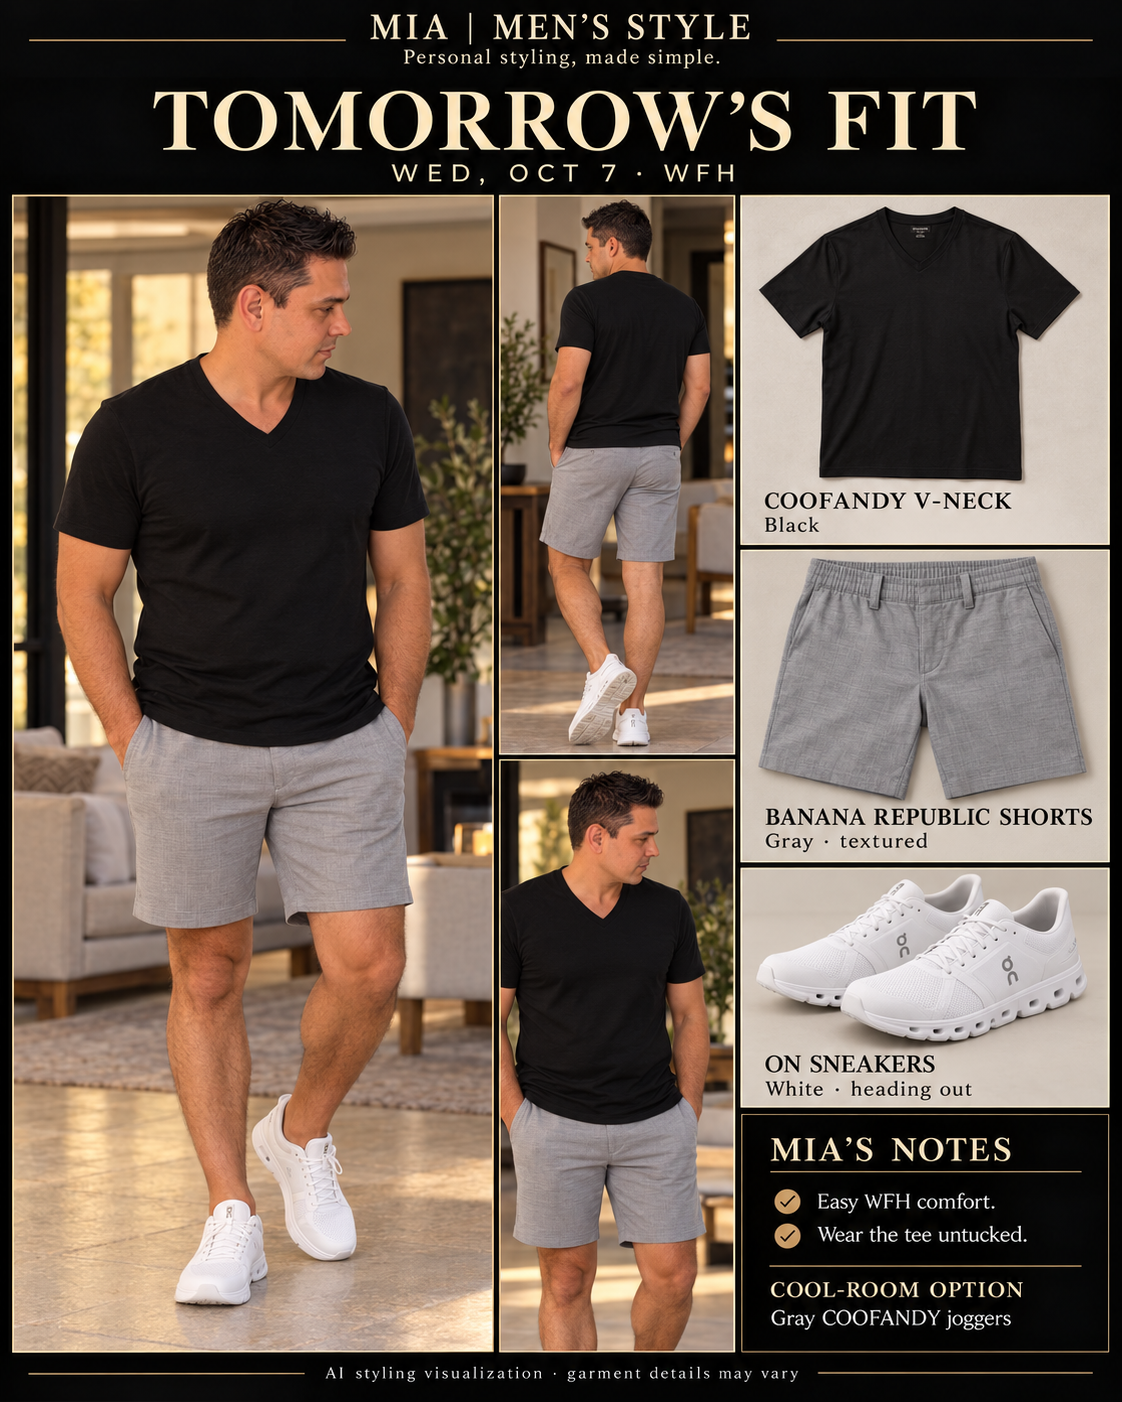
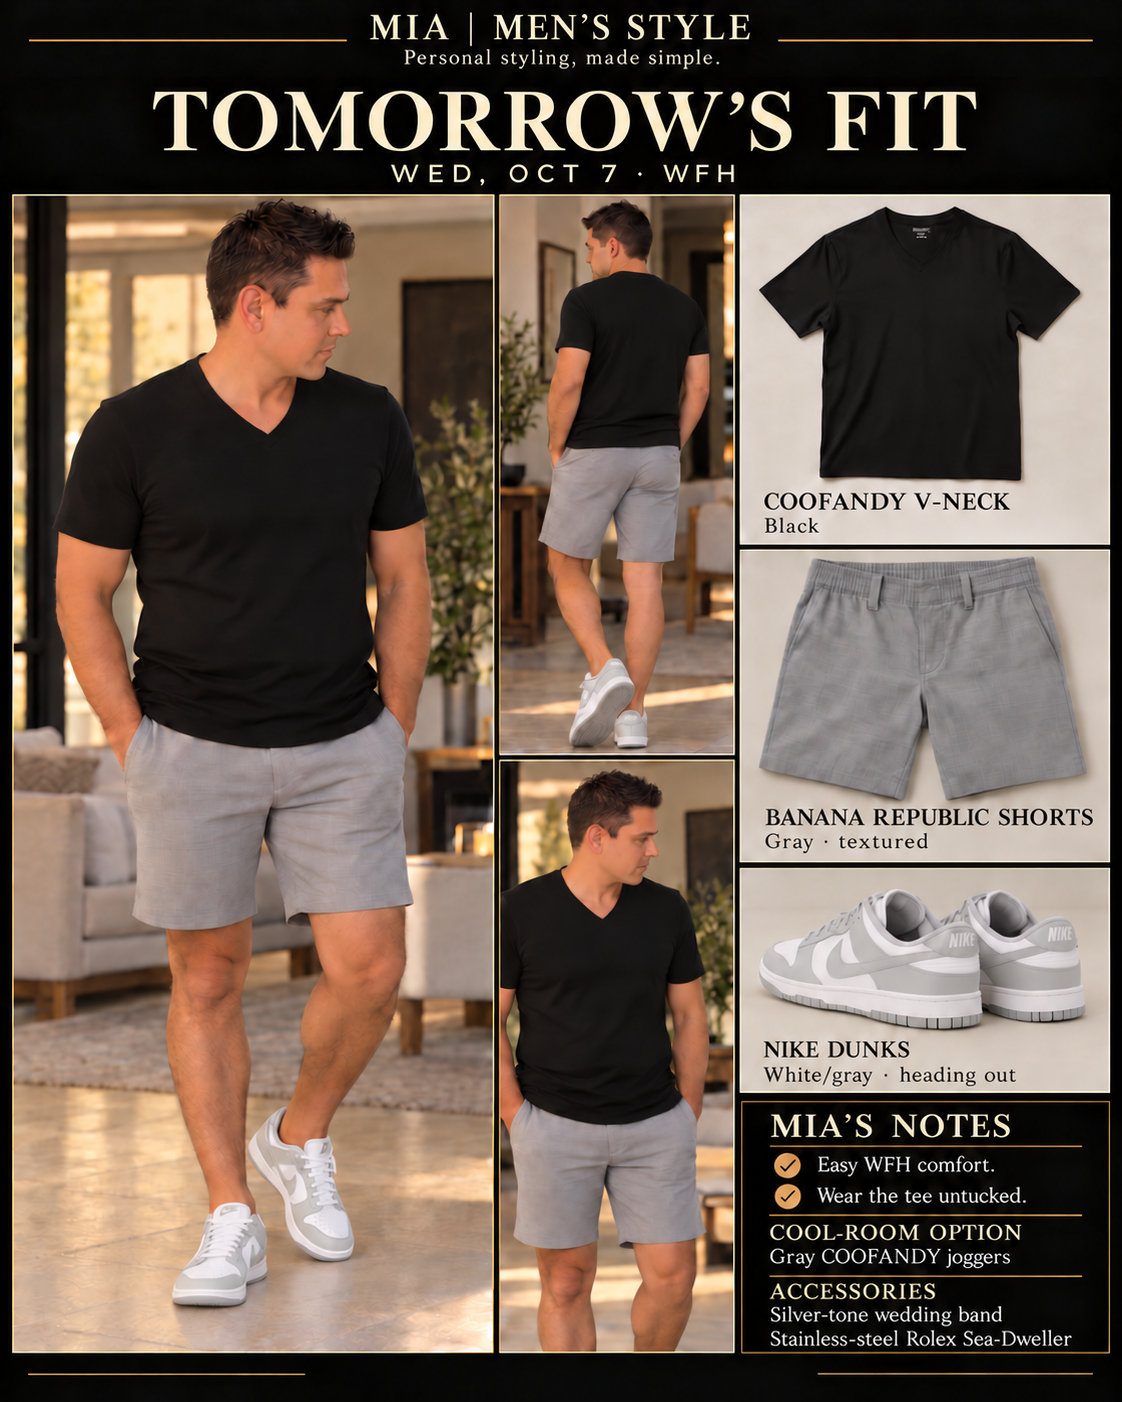
Update featured WFH fit card

diff --git a/lib/fit-cards.ts b/lib/fit-cards.ts
@@ -18,9 +18,9 @@ export const fitCards: FitCard[] = [
     image: "/fit-cards/wfh-comfort.png",
     width: 1122,
     height: 1402,
-    garments: ["Black COOFANDY V-neck tee", "Gray textured Banana Republic shorts", "White On sneakers"],
+    garments: ["Black COOFANDY V-neck tee", "Gray textured Banana Republic shorts", "White-and-gray Nike Dunks", "Silver-tone wedding band", "Stainless-steel Rolex Sea-Dweller"],
     stylingNotes: ["Wear the tee untucked.", "For a cooler room, swap the shorts for gray COOFANDY joggers."],
-    imageDescription: "MIA Fit Card showing a man in a black V-neck T-shirt, gray textured shorts, and white sneakers, with front, back, and garment-detail views.",
+    imageDescription: "MIA Fit Card showing a man in a black V-neck T-shirt, gray textured shorts, and white-and-gray Nike Dunks, with front, back, garment-detail, styling-note, and accessory views.",
   },
   {
     id: "smart-casual-city",
